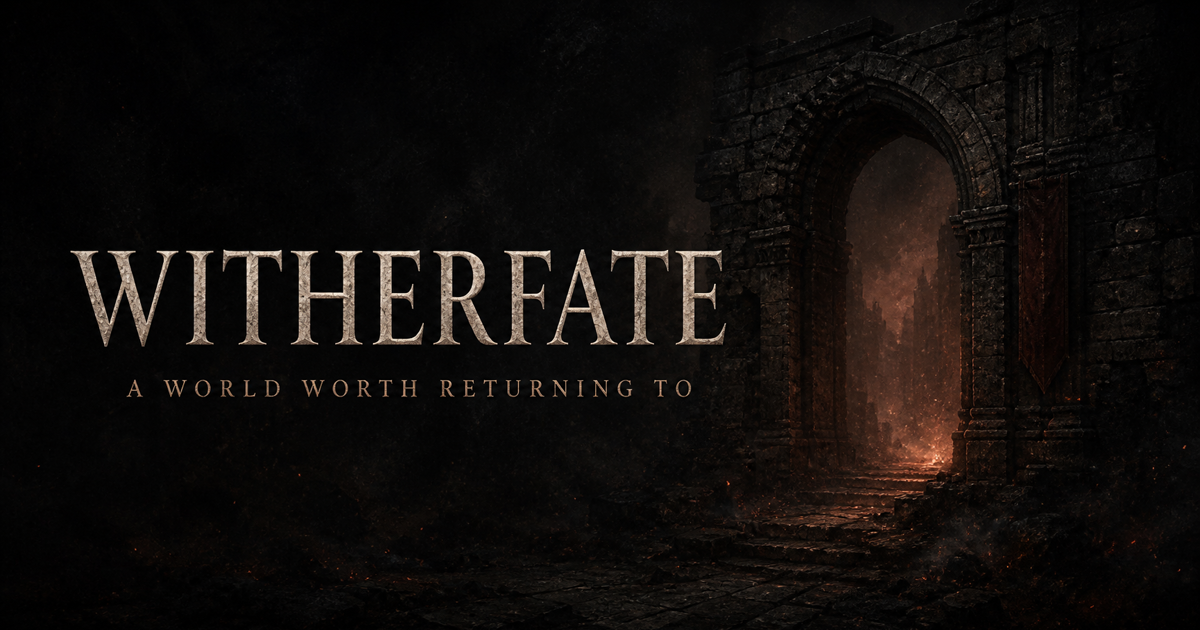
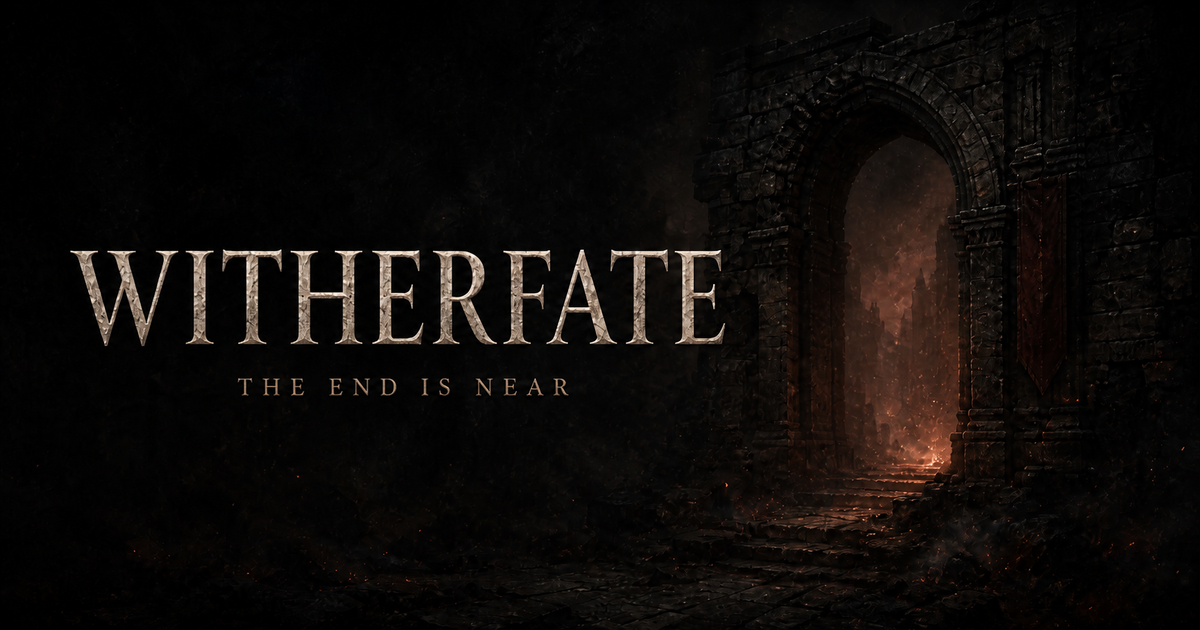
Add damage types and update tagline

diff --git a/app/page.tsx b/app/page.tsx
@@ -4,13 +4,17 @@ import {
   Castle,
   Clock3,
   CreditCard,
+  Flame,
   Handshake,
   RefreshCcw,
   Server,
   Shield,
   ShoppingBag,
+  Skull,
+  Snowflake,
   Sword,
   Users,
+  Zap,
 } from "lucide-react";
 
 const industryFailures = [
@@ -67,6 +71,34 @@ const journey = [
   ["Return changed", "Carry home items, knowledge, wealth, and consequences that become part of your character’s continuing history."],
 ];
 
+const damageTypes = [
+  {
+    icon: Sword,
+    title: "Physical",
+    copy: "Weapons, impacts, wounds, and bleeding.",
+  },
+  {
+    icon: Flame,
+    title: "Fire",
+    copy: "Flame, burning, and intense heat.",
+  },
+  {
+    icon: Snowflake,
+    title: "Cold",
+    copy: "Frost, chilling, and freezing.",
+  },
+  {
+    icon: Zap,
+    title: "Lightning",
+    copy: "Electrical shocks and chaining energy.",
+  },
+  {
+    icon: Skull,
+    title: "Wither",
+    copy: "Poison, disease, blight, and supernatural decay.",
+  },
+];
+
 const exclusions = [
   "No microtransactions",
   "No paid cosmetics",
@@ -95,11 +127,11 @@ export default function Home() {
       </header>
 
       <section className="hero" id="top">
-        <h1 className="sr-only">Witherfate — A World Worth Returning To</h1>
+        <h1 className="sr-only">Witherfate — The End Is Near</h1>
         <div className="hero-art">
           <img
             src="/og.png"
-            alt="Witherfate — A World Worth Returning To. An ancient stone arch opens onto an ember-lit darkness."
+            alt="Witherfate — The End Is Near. An ancient stone arch opens onto an ember-lit darkness."
           />
         </div>
         <div className="hero-caption">
@@ -237,6 +269,36 @@ export default function Home() {
         </div>
       </section>
 
+      <section className="damage-section" id="damage" aria-labelledby="damage-title">
+        <div className="damage-heading">
+          <div className="section-label">Combat and itemization</div>
+          <h2 id="damage-title">Five clearly defined damage types.</h2>
+          <p>
+            Every attack belongs to a category players can understand at a glance, and every
+            category has a corresponding resistance. The system stays readable as skills,
+            enemies, and equipment become more complex.
+          </p>
+        </div>
+        <div className="damage-grid">
+          {damageTypes.map((damageType) => {
+            const Icon = damageType.icon;
+            return (
+              <article className={`damage-card damage-${damageType.title.toLowerCase()}`} key={damageType.title}>
+                <div className="damage-icon" aria-hidden="true">
+                  <Icon strokeWidth={1.25} />
+                </div>
+                <h3>{damageType.title}</h3>
+                <p>{damageType.copy}</p>
+              </article>
+            );
+          })}
+        </div>
+        <p className="damage-principle">
+          Depth comes from how these damage types interact with skills, conditions, enemies, and
+          equipment—not from adding another resistance for every new mechanic.
+        </p>
+      </section>
+
       <section className="online-play-section" aria-labelledby="online-play-title">
         <div className="online-play-heading">
           <div className="section-label">A multiplayer game at heart</div>
@@ -292,6 +354,7 @@ export default function Home() {
             power, but because other people still depend on what it can do.
           </p>
           <div className="class-traits" aria-label="Defiler combat identity">
+            <span>Physical / Wither damage</span>
             <span>Enemy disruption</span>
             <span>Battlefield corruption</span>
             <span>Party amplification</span>

diff --git a/app/globals.css b/app/globals.css
@@ -243,6 +243,57 @@ blockquote {
 .journey-list h3 { margin: 0 0 7px; font: 500 26px/1.1 var(--font-display), serif; }
 .journey-list p { margin: 0; max-width: 580px; color: var(--muted); font-size: 14px; }
 
+.damage-section {
+  padding: clamp(90px, 11vw, 160px) clamp(24px, 6vw, 100px);
+  border-bottom: 1px solid var(--line);
+  background:
+    radial-gradient(circle at 84% 20%, rgba(154, 76, 54, .07), transparent 32rem),
+    #0c0f0f;
+}
+.damage-heading { max-width: 900px; }
+.damage-heading h2 {
+  margin: 20px 0 30px;
+  font: 500 clamp(44px, 5vw, 78px)/.98 var(--font-display), serif;
+  letter-spacing: -.025em;
+}
+.damage-heading p { max-width: 720px; margin: 0; color: var(--muted); font-size: 18px; }
+.damage-grid {
+  display: grid;
+  grid-template-columns: repeat(5, minmax(0, 1fr));
+  max-width: 1400px;
+  margin-top: clamp(58px, 7vw, 90px);
+  border-top: 1px solid var(--line);
+  border-left: 1px solid var(--line);
+}
+.damage-card {
+  min-height: 270px;
+  padding: 30px clamp(20px, 2.4vw, 38px);
+  border-right: 1px solid var(--line);
+  border-bottom: 1px solid var(--line);
+  background: rgba(9, 11, 11, .42);
+}
+.damage-icon {
+  width: 52px;
+  height: 52px;
+  display: grid;
+  place-items: center;
+  color: #c5b9aa;
+  border: 1px solid rgba(98, 91, 82, .7);
+  transform: rotate(45deg);
+}
+.damage-icon svg { width: 27px; height: 27px; transform: rotate(-45deg); }
+.damage-fire .damage-icon, .damage-lightning .damage-icon { color: var(--ember); border-color: rgba(199, 122, 81, .45); }
+.damage-cold .damage-icon { color: #9eaca9; }
+.damage-wither .damage-icon { color: #a4735f; border-color: rgba(154, 76, 54, .58); }
+.damage-card h3 { margin: 54px 0 14px; font: 500 30px/1 var(--font-display), serif; }
+.damage-card p { margin: 0; color: var(--muted); font-size: 13px; line-height: 1.65; }
+.damage-principle {
+  max-width: 870px;
+  margin: 42px 0 0;
+  color: #b9aea0;
+  font: 400 clamp(21px, 2.2vw, 31px)/1.3 var(--font-display), serif;
+}
+
 .online-play-section {
   padding: clamp(90px, 11vw, 160px) clamp(24px, 9vw, 150px);
   border-bottom: 1px solid var(--line);
@@ -415,6 +466,7 @@ footer { display: flex; justify-content: space-between; gap: 20px; padding: 25px
   .principle:nth-child(2) { border-right: 0; }
   .principle:nth-child(-n+2) { border-bottom: 1px solid var(--line); }
   .experience-heading { position: static; }
+  .damage-grid { grid-template-columns: repeat(2, minmax(0, 1fr)); }
   .commitment-grid { grid-template-columns: 1fr; }
   .commitment { min-height: auto; border-right: 0; border-bottom: 1px solid var(--line); }
   .commitment:last-child { border-bottom: 0; }
@@ -433,6 +485,9 @@ footer { display: flex; justify-content: space-between; gap: 20px; padding: 25px
   .online-play-card, .online-play-card + .online-play-card { min-height: auto; padding: 34px 0 42px; border-right: 0; }
   .online-play-card:first-child { border-bottom: 1px solid var(--line); }
   .online-play-card h3 { margin-top: 42px; }
+  .damage-grid { grid-template-columns: 1fr; }
+  .damage-card { min-height: auto; }
+  .damage-card h3 { margin-top: 38px; }
   .class-notes { grid-template-columns: 1fr; }
   .class-notes > div, .class-notes > div + div { padding: 24px 0; border-right: 0; }
   .class-notes > div:first-child { border-bottom: 1px solid var(--line); }

diff --git a/app/layout.tsx b/app/layout.tsx
@@ -12,21 +12,21 @@ const display = Cormorant_Garamond({
 
 export const metadata: Metadata = {
   metadataBase: new URL("https://witherfate.com"),
-  title: "Witherfate — A World Worth Returning To",
+  title: "Witherfate — The End Is Near",
   description:
     "A premium, server-authoritative action RPG built for intentional group play, persistent progression, and a world protected from real-world money.",
   openGraph: {
-    title: "Witherfate — A World Worth Returning To",
+    title: "Witherfate — The End Is Near",
     description:
       "A world protected from real-world money, seasonal resets, and monetization systems built at the cost of the game.",
     url: "https://witherfate.com",
     siteName: "Witherfate",
     type: "website",
-    images: [{ url: "/og.png", width: 1200, height: 630, alt: "Witherfate — A World Worth Returning To" }],
+    images: [{ url: "/og.png", width: 1200, height: 630, alt: "Witherfate — The End Is Near" }],
   },
   twitter: {
     card: "summary_large_image",
-    title: "Witherfate — A World Worth Returning To",
+    title: "Witherfate — The End Is Near",
     description:
       "A world protected from real-world money, seasonal resets, and monetization systems built at the cost of the game.",
     images: ["/og.png"],
